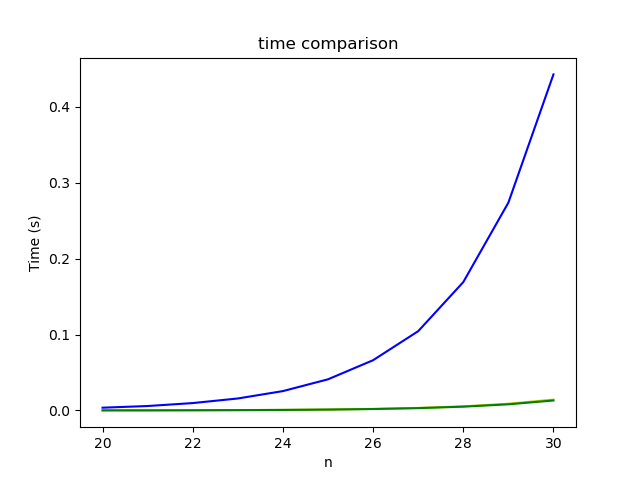
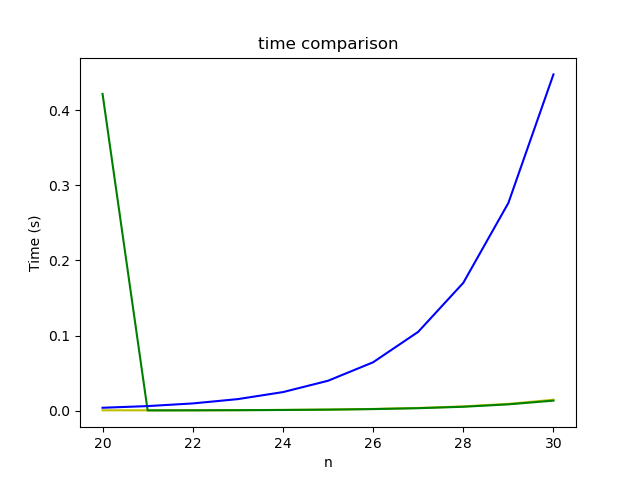
test

diff --git a/MA4_2.py b/MA4_2.py
@@ -69,7 +69,7 @@ def time47():
 def main():
     main_start = pc()
     #time47()
-    comp(20,25)
+    comp(20,30)
     main_end = pc()
     print('Done')
     print(str(main_end-main_start)+"s")
